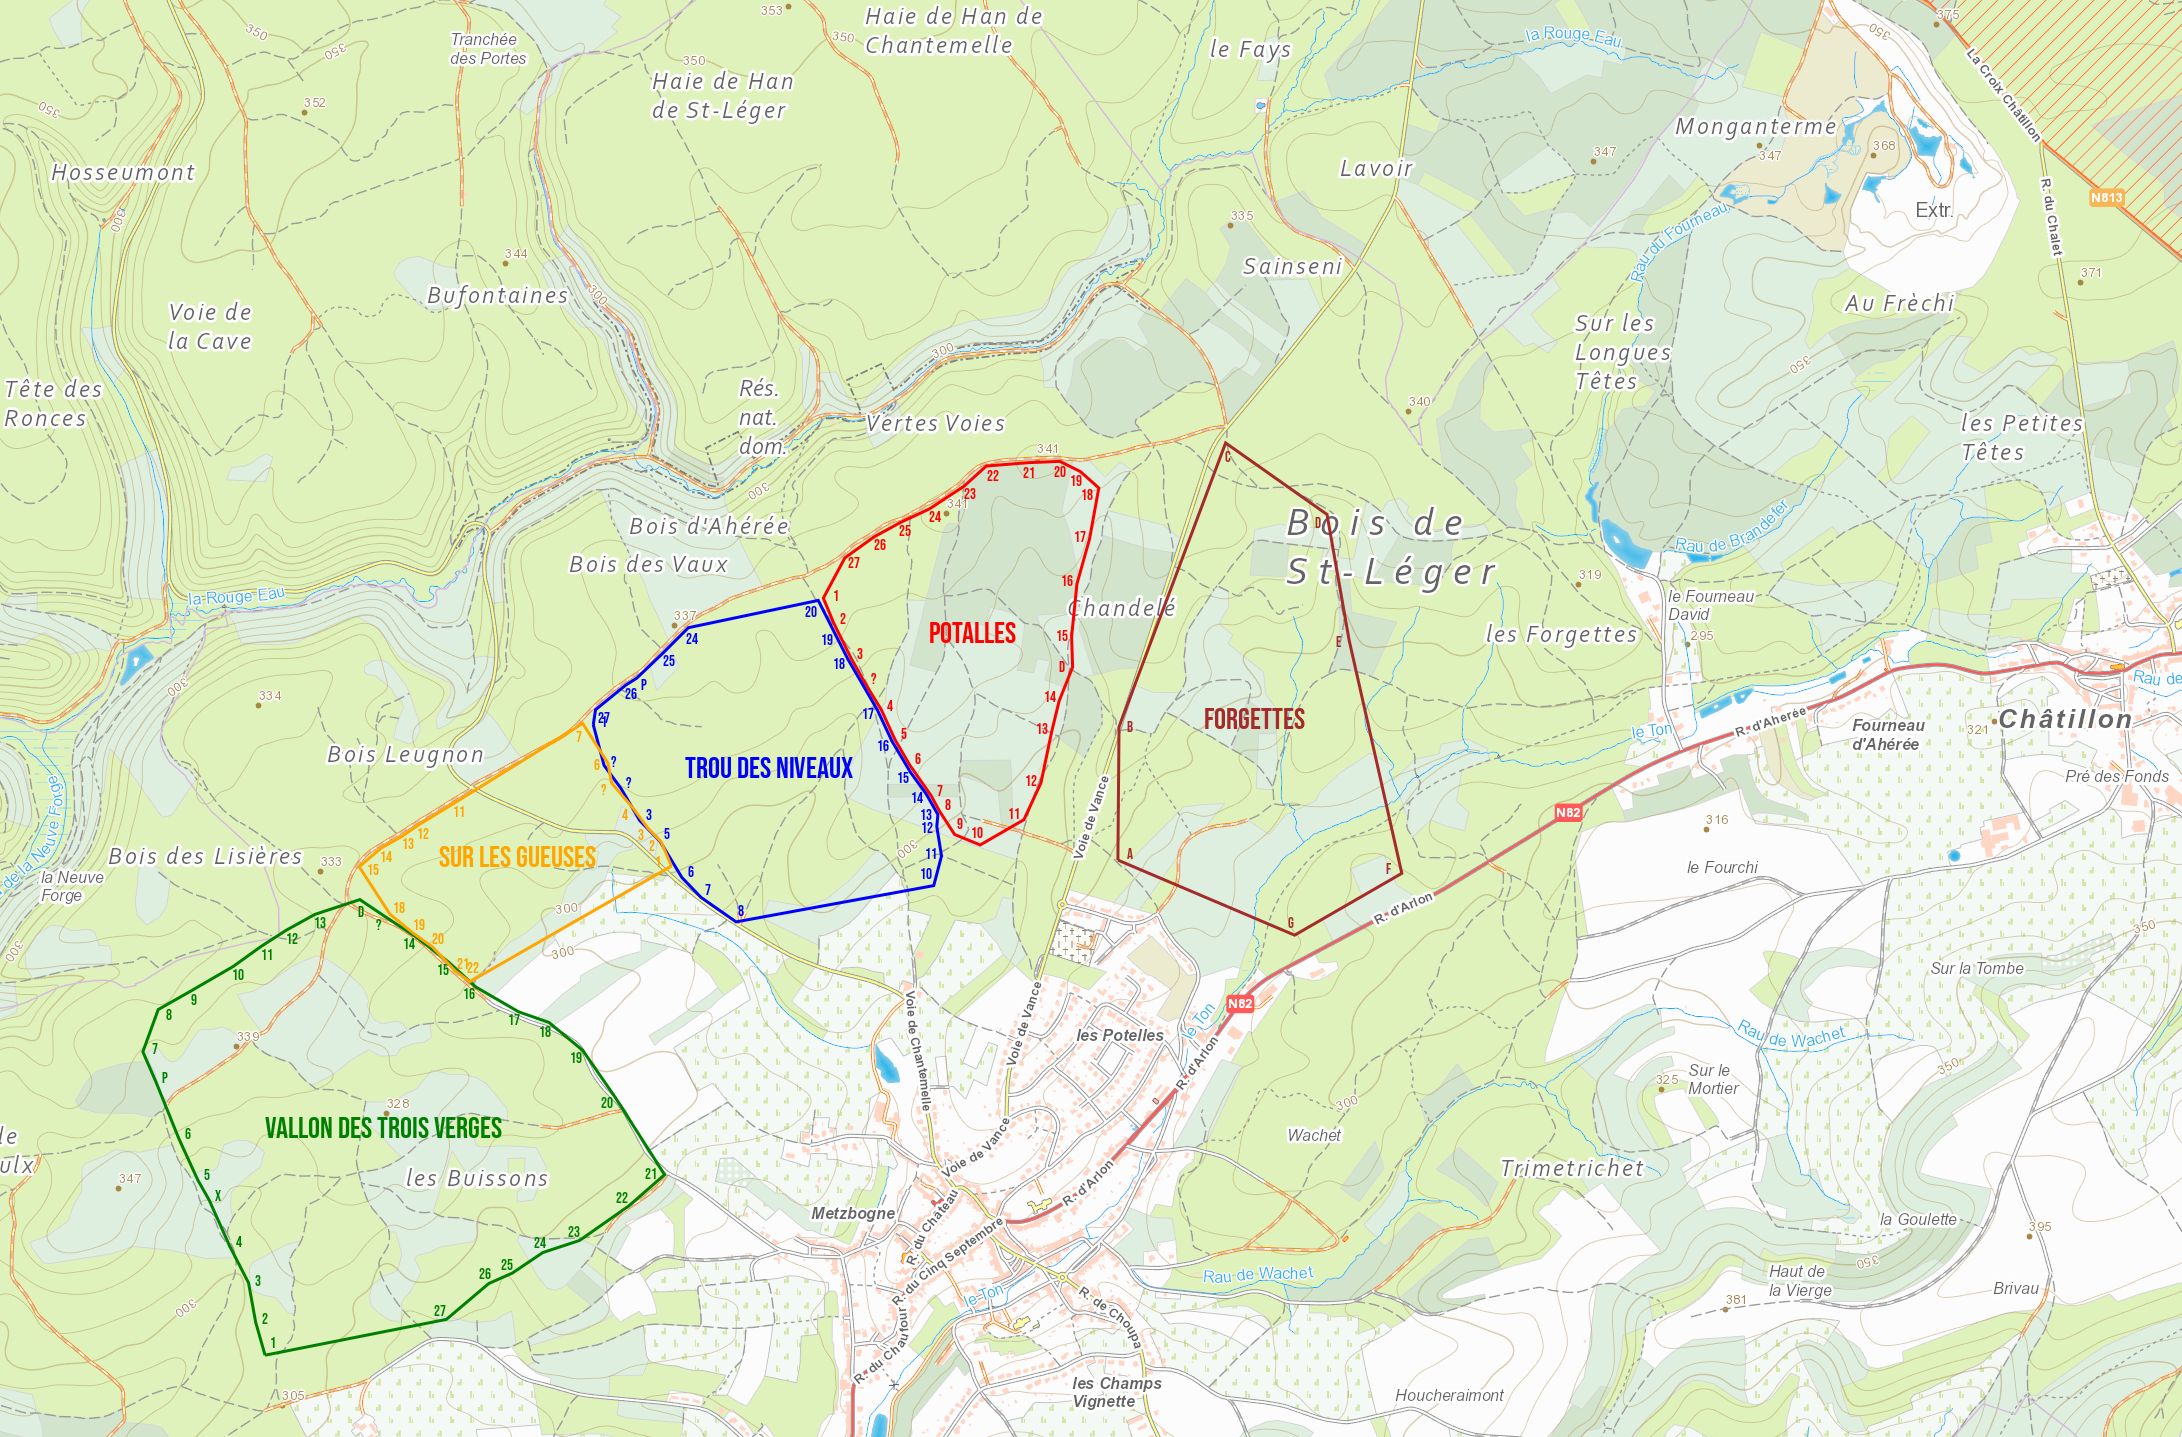
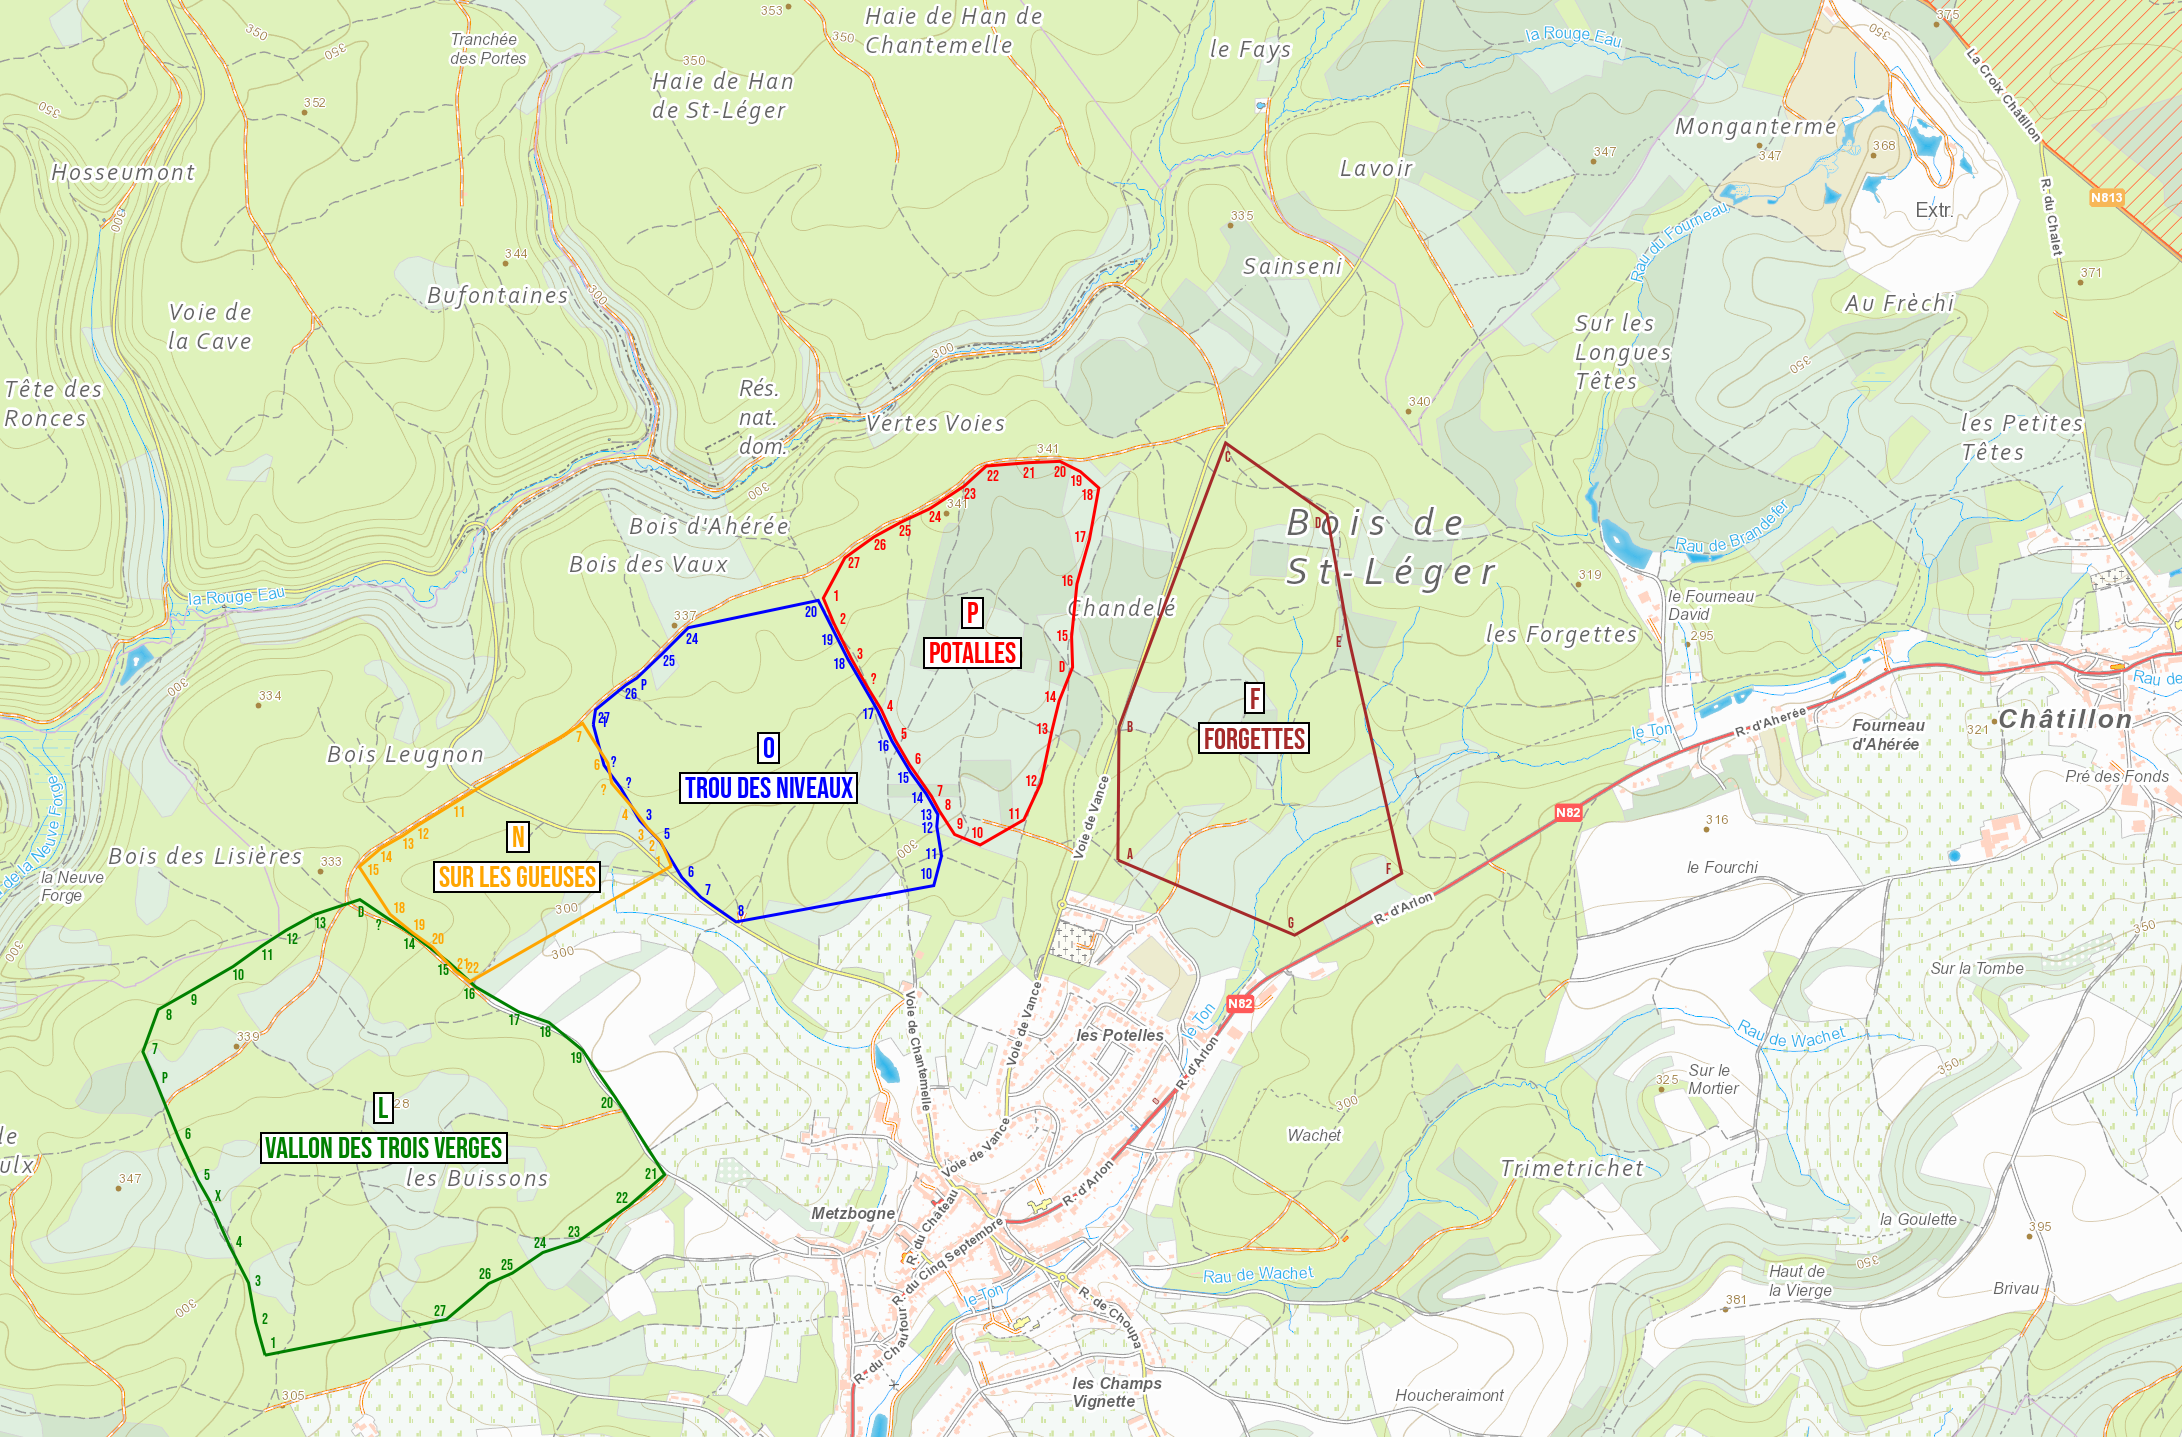
added white box

diff --git a/src/map.py b/src/map.py
@@ -2,7 +2,7 @@ from PIL import ImageFont, ImageDraw, Image
 import aggdraw
 import json
 from battue import Battue
-from util import LambertPoint, get_lines_from_vertices, Line, point_within_bounds, flatten_tuple_array
+from util import LambertPoint, get_lines_from_vertices, Line, point_within_bounds, flatten_tuple_array, draw_text_in_a_box
 import numpy as np
 from shapely import centroid, Polygon
 
@@ -26,9 +26,14 @@ class Map:
     def draw_battue_name(self, battue: Battue):
         draw = ImageDraw.Draw(self.image)  # created object for image
         anchor_point = centroid(Polygon(self.get_line_vertices(battue)))
+        anchor_point = np.array([anchor_point.x, anchor_point.y])
         fnt = ImageFont.truetype("../content/BebasNeue-Regular.ttf", 30)
-        draw.text((anchor_point.x, anchor_point.y), battue.name, font=fnt, fill=battue.colour, anchor="mm")
-        # draw.textbbox((anchor_point.x, anchor_point.y), battue.name, anchor="mm", stroke_width=20, font_size=20)
+        y_offset = 20
+        padding = 5
+
+        draw_text_in_a_box(draw, battue.name, battue.colour, anchor_point, fnt, y_offset, padding)
+
+        draw_text_in_a_box(draw, battue.label, battue.colour, anchor_point, fnt, -y_offset, padding)
 
     def draw_postes(self, battue: Battue):
         draw = ImageDraw.Draw(self.image)  # created object for image

diff --git a/src/util.py b/src/util.py
@@ -77,3 +77,11 @@ def flatten_tuple_array(tuple_array):
         out.append(i[0])
         out.append(i[1])
     return out
+
+
+def draw_text_in_a_box(draw, text, colour, anchor_point, fnt, y_offset, padding):
+    anchor_point = anchor_point + np.array([0, y_offset])
+    left, top, right, bottom = draw.textbbox((anchor_point[0], anchor_point[1]), text, font=fnt, anchor="mm", align="center")
+    text_box = [(left - padding, top - padding), (right + padding, bottom + padding)]
+    draw.rectangle(text_box, fill="white", outline="black", width=2)
+    draw.text((anchor_point[0], anchor_point[1]), text, font=fnt, fill=colour, anchor="mm", align="center")
